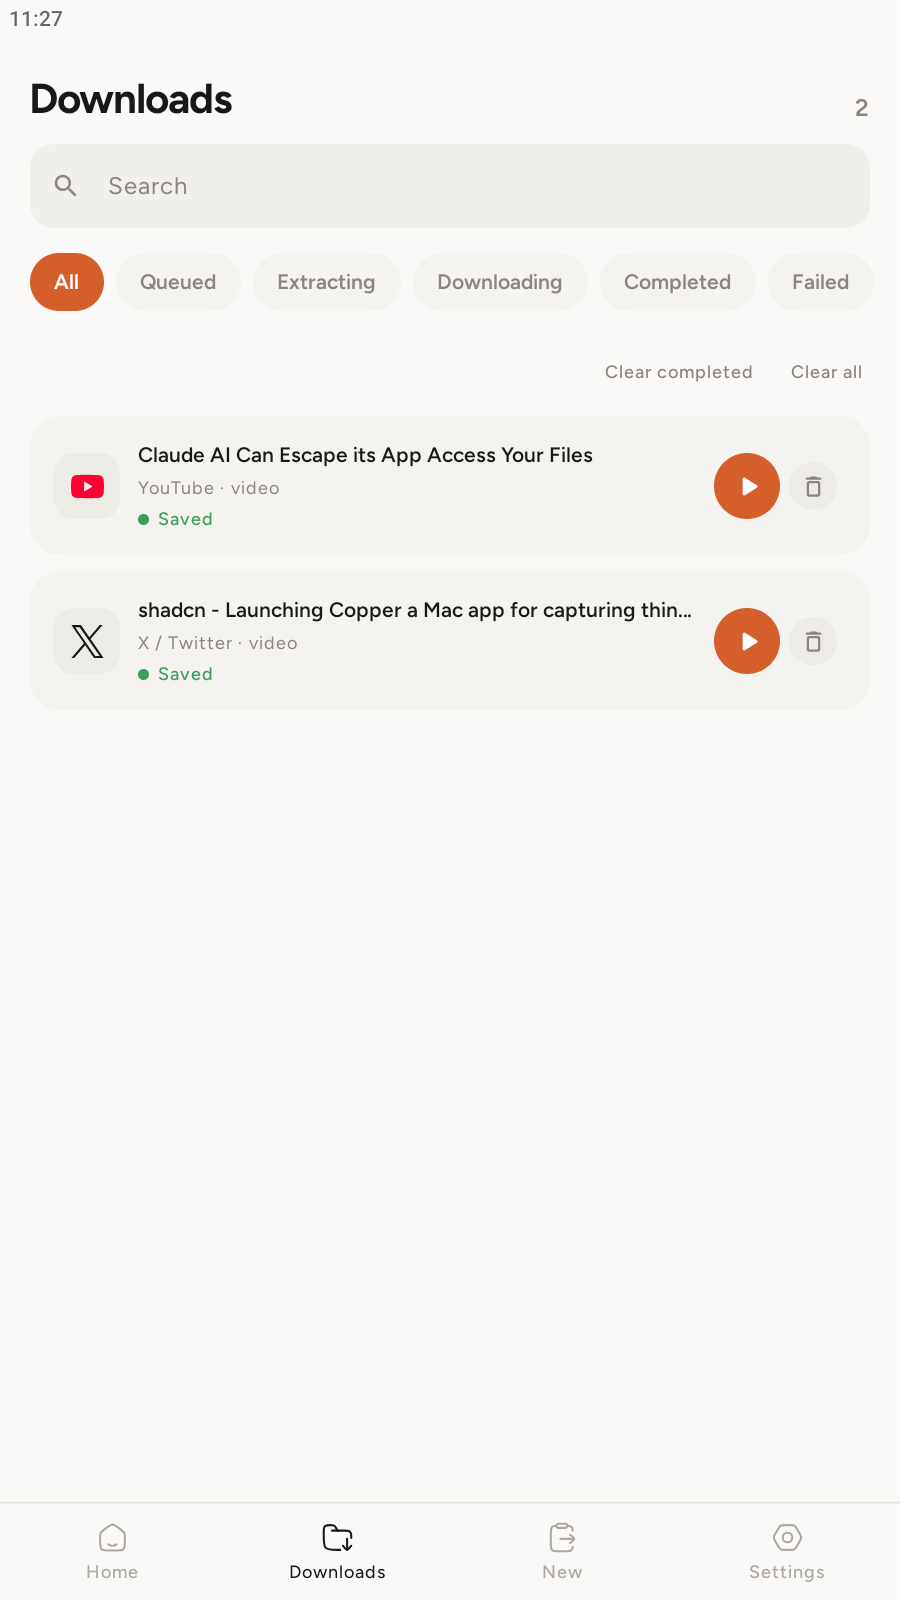
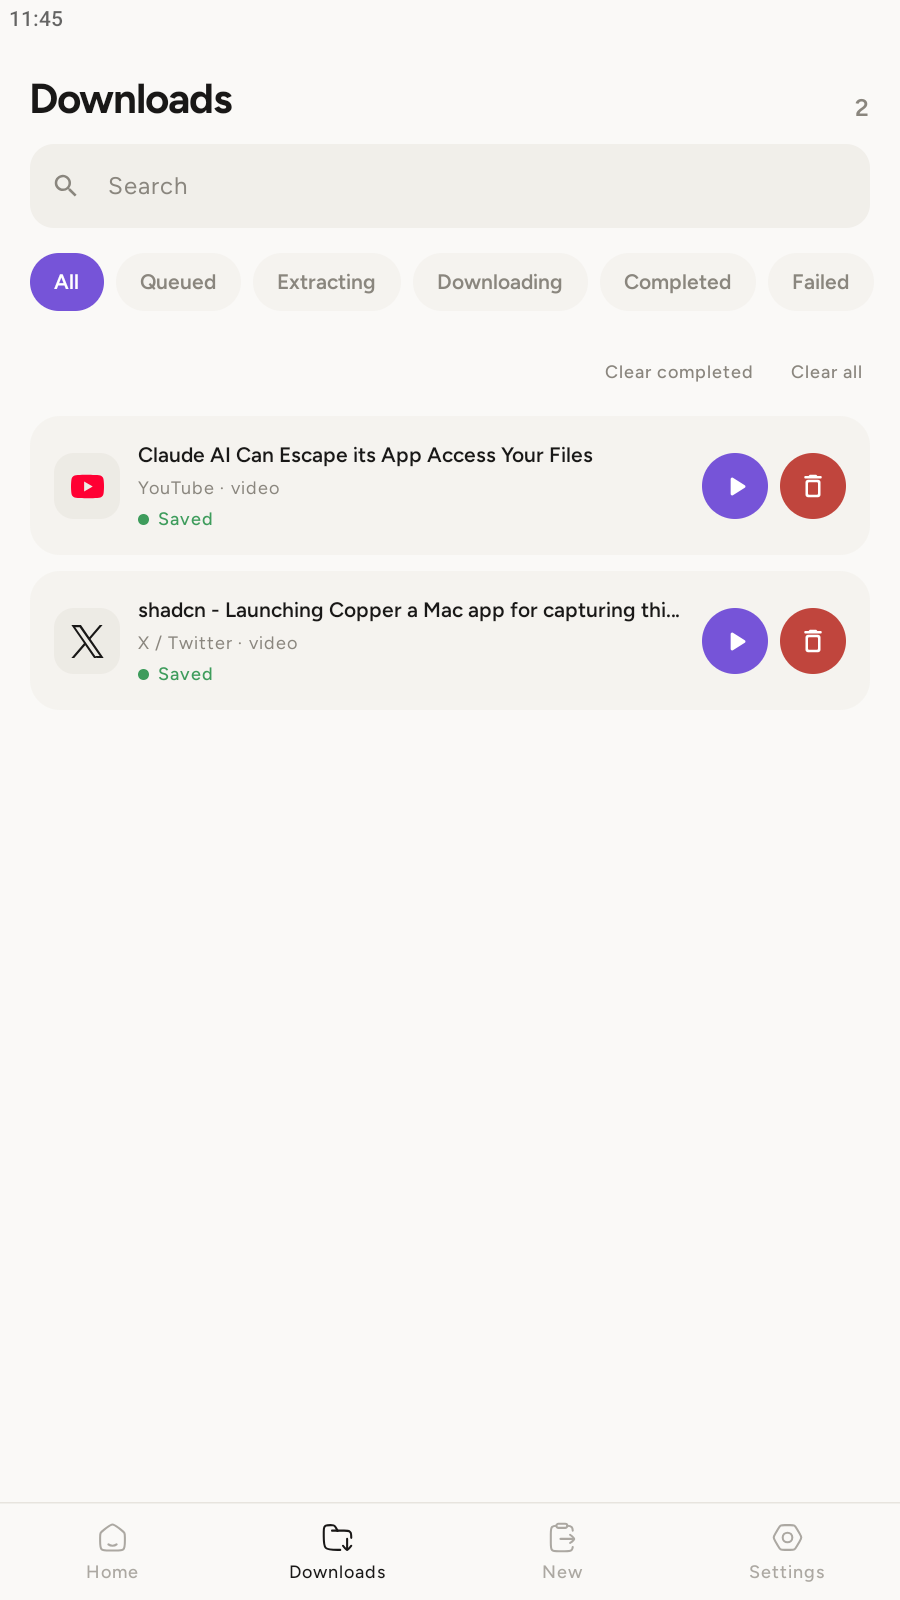
style(downloads): align and color row actions

diff --git a/app/src/main/java/com/abdellatif/clipsave/ui/components/Components.kt b/app/src/main/java/com/abdellatif/clipsave/ui/components/Components.kt
@@ -27,11 +27,11 @@ import androidx.compose.material.icons.rounded.PlayArrow
 import androidx.compose.material.icons.rounded.Refresh
 import androidx.compose.material3.Icon
 import androidx.compose.material3.IconButton
+import androidx.compose.material3.IconButtonDefaults
 import androidx.compose.material3.MaterialTheme
 import androidx.compose.material3.Surface
 import androidx.compose.material3.Text
 import androidx.compose.runtime.Composable
-import androidx.compose.runtime.CompositionLocalProvider
 import androidx.compose.runtime.getValue
 import androidx.compose.ui.Alignment
 import androidx.compose.ui.Modifier
@@ -259,6 +259,7 @@ fun DownloadRow(
                     }
                     RowAction(
                         label = "Remove",
+                        destructive = true,
                         icon = { Icon(Icons.Rounded.DeleteOutline, contentDescription = null) }
                     ) { onDelete(item.id) }
                 } else {
@@ -319,6 +320,7 @@ fun DownloadRow(
                     }
                     RowAction(
                         label = "Remove",
+                        destructive = true,
                         icon = { Icon(Icons.Rounded.DeleteOutline, contentDescription = null) }
                     ) { onDelete(item.id) }
                 }
@@ -330,20 +332,31 @@ fun DownloadRow(
 @Composable
 private fun RowAction(
     label: String,
+    destructive: Boolean = false,
     icon: @Composable () -> Unit,
     onClick: () -> Unit
 ) {
-    IconButton(onClick = onClick, modifier = Modifier.size(44.dp)) {
-        Box(
-            Modifier.size(32.dp).background(MaterialTheme.colorScheme.surfaceContainerHigh, CircleShape),
-            contentAlignment = Alignment.Center
-        ) {
-            CompositionLocalProvider(
-                androidx.compose.material3.LocalContentColor provides
-                    MaterialTheme.colorScheme.onSurfaceVariant
-            ) {
-                Box(Modifier.size(18.dp), contentAlignment = Alignment.Center) { icon() }
-            }
+    val containerColor = if (destructive) {
+        MaterialTheme.colorScheme.error
+    } else {
+        MaterialTheme.colorScheme.surfaceContainerHigh
+    }
+    val contentColor = if (destructive) {
+        MaterialTheme.colorScheme.onError
+    } else {
+        MaterialTheme.colorScheme.onSurfaceVariant
+    }
+
+    IconButton(
+        onClick = onClick,
+        modifier = Modifier.padding(start = 8.dp).size(44.dp),
+        colors = IconButtonDefaults.iconButtonColors(
+            containerColor = containerColor,
+            contentColor = contentColor
+        )
+    ) {
+        Box(Modifier.size(20.dp), contentAlignment = Alignment.Center) {
+            icon()
         }
     }
 }
